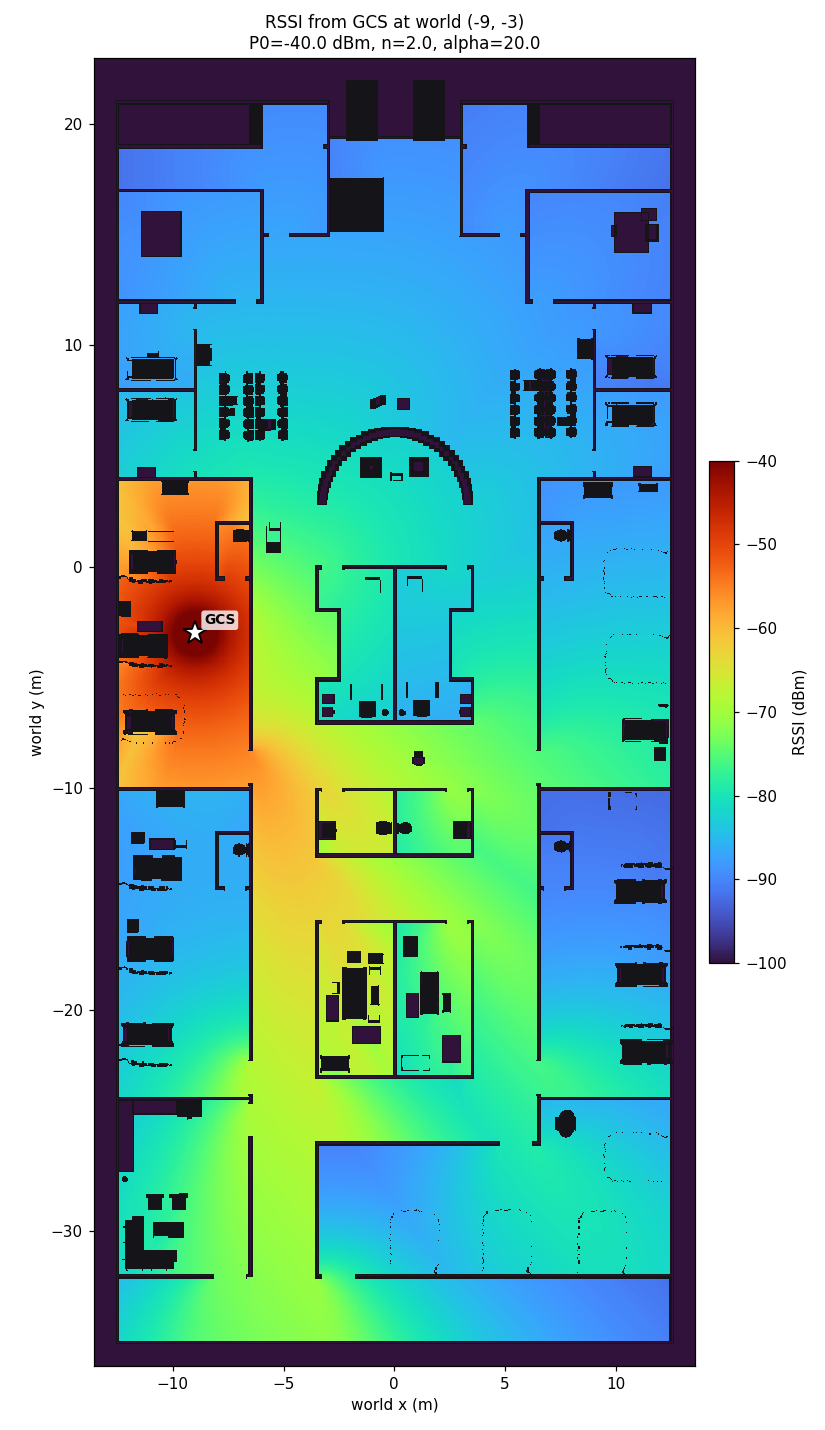
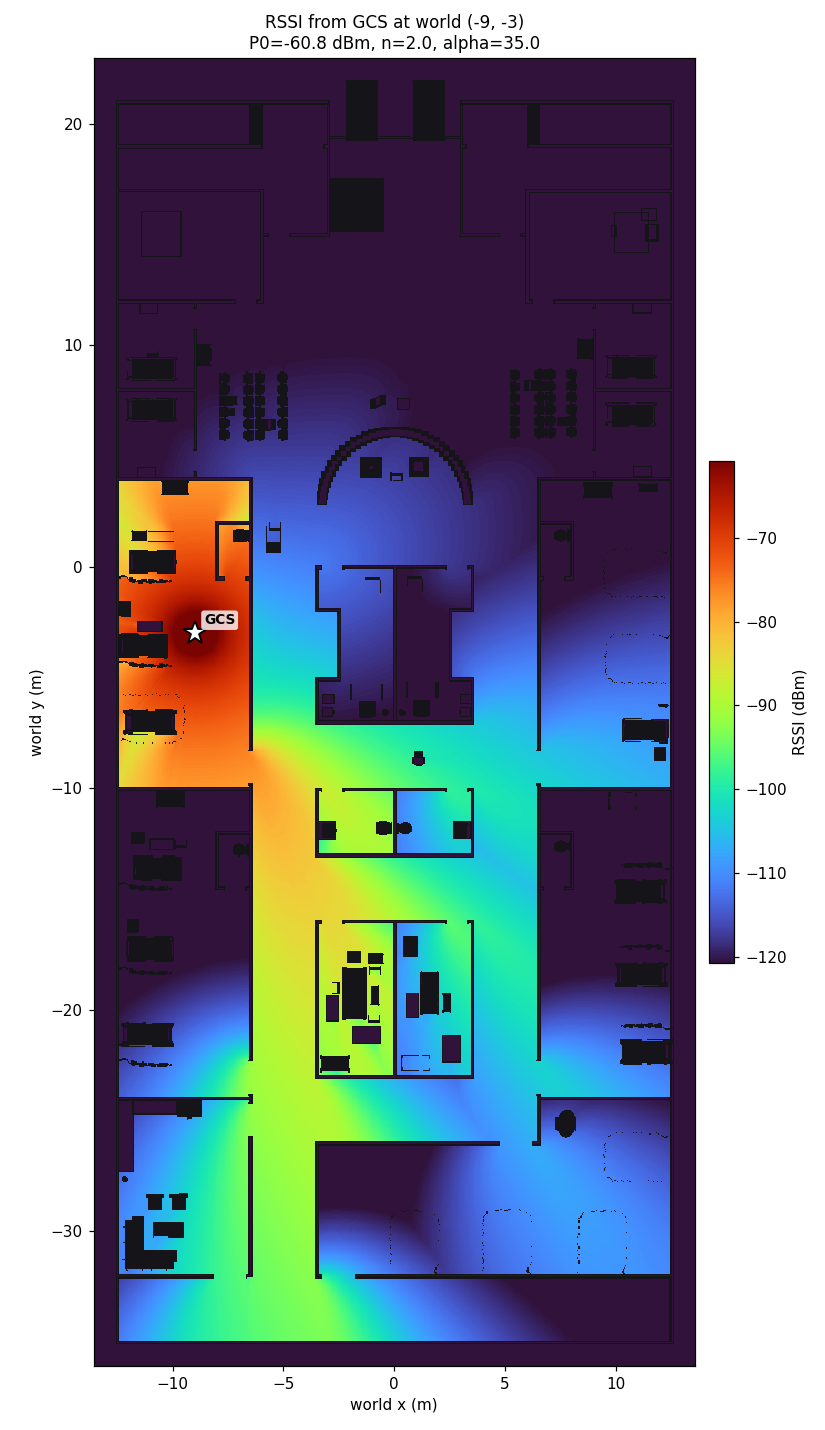
rssi: paper parameters + measured P0; regenerate all PNGs
Parameters (Seo et al., RA-L 2025): n = 2, alpha = 35 (Fig. 6c true
parameters), sigma_n = 3 dB and eta = -85 dBm (Table I). Link colours use the
paper's Fig. 9 bands: > -65 green, -65..-85 yellow, < -85 red.

P0 = -60.8 dBm, measured on our Rajant Cardinal pair at 1 m, antennas facing,
5 GHz ch161, 10 snapshots (-61.4 / -60.2 per direction, sd < 1 dB). That is
31 dB below the paper's -30 on the same hardware, i.e. our TX power is set low.
Outputs are generated for both P0 values (paperP0_* = -30).

Finding: at the measured P0 the two-relay chain cannot cover the 43.7 m route;
the head disconnects at ~30 m (relay hops of ~14 m fall below -85 even in LOS).
At the paper's P0 the chain is never needed.

Colour floor now tracks P0 (P0 - 60) and every Phase 2 frame is saved as PNG.

diff --git a/rssi/phase2_topology.py b/rssi/phase2_topology.py
@@ -57,19 +57,26 @@ def route(grid, start, goal, spacing=0.25):
     return np.c_[np.interp(s, seg, xy[:, 0]), np.interp(s, seg, xy[:, 1])], seg[-1]
 
 
+GOOD_DBM = -65.0   # paper Fig. 9 legend: RSSI > -65 green, -65..-85 yellow, <= -85 red
+
+
+def link_colour(rssi, thr):
+    if not np.isfinite(rssi) or rssi < thr:
+        return "#d62728"
+    return "#2ca02c" if rssi > GOOD_DBM else "#e6b800"
+
+
 def draw(ax, net, grid, links, conn, thr, cov, title, norm):
     show = np.where(np.isfinite(cov), cov, np.where(grid.free, norm.vmin, np.nan))  # sealed -> floor colour
     im = ax.imshow(show, origin="lower", extent=grid.extent(),
                    cmap="turbo", norm=norm, interpolation="nearest", alpha=0.85)
     walls_overlay(ax, grid)
-    lcm = plt.get_cmap("RdYlGn")
-    lnorm = Normalize(thr - 10, net.prop.P0 - 15)
     for L in links:
         a, b = net.node(L["a"]), net.node(L["b"])
         up = np.isfinite(L["rssi"]) and L["rssi"] >= thr
         xs, ys = [a.xy[0], b.xy[0]], [a.xy[1], b.xy[1]]
-        ax.plot(xs, ys, color=lcm(lnorm(L["rssi"])) if up else "0.35",
-                lw=2.6 if up else 1.0, ls="-" if up else (0, (3, 3)), zorder=6)
+        ax.plot(xs, ys, color=link_colour(L["rssi"], thr), lw=2.8 if up else 1.4,
+                ls="-" if up else (0, (3, 3)), zorder=6)
         mx, my = np.mean(xs), np.mean(ys)
         txt = f"{L['rssi']:.0f}" + ("" if L["los"] else "*")
         ax.text(mx, my, txt, fontsize=7.5, ha="center", va="center", zorder=8,
@@ -117,7 +124,7 @@ def noise_check(net, gcs, res_ok):
     chk("links are symmetric (a->b == b->a)", sym < 1e-9, f"|diff| = {sym:.1e} dB")
 
     fig, axs = plt.subplots(1, 4, figsize=(20, 10), gridspec_kw=dict(width_ratios=[1, 1, 1, 1.1]))
-    norm = Normalize(-100, net.prop.P0)
+    norm = Normalize(net.prop.P0 - 60, net.prop.P0)
     g = net.grid
     for ax, img, t in [(axs[0], clean, "GCS clean (Phase 1 model)"),
                        (axs[1], noisy, f"GCS + shadowing (sigma {net.noise.sigma_shadow} dB, {net.noise.corr_m} m)")]:
@@ -148,9 +155,9 @@ def main():
                     help="where the head robot drives to (world m)")
     ap.add_argument("--threshold", type=float, default=-85.0, help="link usable at >= this, dBm")
     ap.add_argument("--frames", type=int, default=36)
-    ap.add_argument("--sigma-shadow", type=float, default=4.0)
-    ap.add_argument("--corr", type=float, default=3.0)
-    ap.add_argument("--sigma-fast", type=float, default=2.0)
+    ap.add_argument("--sigma-shadow", type=float, default=NoiseParams.sigma_shadow)
+    ap.add_argument("--corr", type=float, default=NoiseParams.corr_m)
+    ap.add_argument("--sigma-fast", type=float, default=NoiseParams.sigma_fast)
     ap.add_argument("--P0", type=float, default=PropagationParams.P0)
     ap.add_argument("--n", type=float, default=PropagationParams.n)
     ap.add_argument("--alpha", type=float, default=PropagationParams.alpha)
@@ -222,16 +229,15 @@ def main():
     print(f"\n  [{'PASS' if ok else 'FAIL'}] link 'clean' value equals a fresh eq.(1) evaluation"); results.append(ok)
 
     # ---- plots
-    norm = Normalize(-100, net.prop.P0)
-    picks = sorted(set([0, a.frames // 3, 2 * a.frames // 3, a.frames - 1]))
-    for k in picks:
+    norm = Normalize(net.prop.P0 - 60, net.prop.P0)
+    for k in range(len(frames)):                       # every frame as its own PNG
         _, links, conn, cov, pos, s = frames[k]
         for n in net.nodes: n.xy = pos[n.name]
         fig, ax = plt.subplots(figsize=(7.5, 13))
         im = draw(ax, net, grid, links, conn, a.threshold, cov,
                   f"frame {k}/{a.frames-1}  -  head {s:.1f} m along route\n"
                   f"coverage = best RSSI from any node (noisy)  |  link labels dBm, * = NLOS\n"
-                  f"solid = usable (>= {a.threshold:g} dBm), dashed grey = below", norm)
+                  f"links: green > -65, yellow -65..{a.threshold:g}, red dashed < {a.threshold:g} dBm (paper Fig. 9)", norm)
         fig.colorbar(im, ax=ax, fraction=0.035, pad=0.02).set_label("best RSSI (dBm)")
         ax.set_xlabel("world x (m)"); ax.set_ylabel("world y (m)")
         fig.tight_layout(); fig.savefig(os.path.join(OUT, f"phase2_frame_{k:02d}.png"), dpi=100); plt.close(fig)

diff --git a/rssi/heatmap.py b/rssi/heatmap.py
@@ -42,14 +42,16 @@ def main():
     ap.add_argument("--alpha", type=float, default=PropagationParams.alpha, help="detour weight")
     ap.add_argument("--threshold", type=float, default=-85.0, help="link usable at >= this, dBm")
     ap.add_argument("--noise", action="store_true", help="add shadowing to maps + fast fading to links")
-    ap.add_argument("--sigma-shadow", type=float, default=4.0)
-    ap.add_argument("--corr", type=float, default=3.0)
-    ap.add_argument("--sigma-fast", type=float, default=2.0)
+    ap.add_argument("--sigma-shadow", type=float, default=NoiseParams.sigma_shadow)
+    ap.add_argument("--corr", type=float, default=NoiseParams.corr_m)
+    ap.add_argument("--sigma-fast", type=float, default=NoiseParams.sigma_fast)
     ap.add_argument("--seed", type=int, default=0, help="fast-fading seed")
-    ap.add_argument("--floor", type=float, default=-100.0, help="colour-scale floor, dBm")
+    ap.add_argument("--floor", type=float, default=None, help="colour-scale floor, dBm (default P0-60)")
     ap.add_argument("--per-node", action="store_true", help="also save one map per node")
     ap.add_argument("--name", default="heatmap", help="output file name (no extension)")
     a = ap.parse_args()
+    if a.floor is None:
+        a.floor = a.P0 - 60.0
 
     grid = GridMap.load(GT + ".npy", GT + ".json")
     net = Network(grid, PropagationParams(P0=a.P0, n=a.n, alpha=a.alpha),
@@ -91,7 +93,7 @@ def main():
     fig, ax = plt.subplots(figsize=(7.5, 13))
     im = draw(ax, net, grid, links, conn, a.threshold, cov,
               f"P0 {a.P0} dBm, n {a.n}, alpha {a.alpha}, noise {'on' if a.noise else 'off'}\n"
-              f"colour = best RSSI from any node  |  solid link = >= {a.threshold:g} dBm", norm)
+              f"colour = best RSSI from any node  |  links green > -65, yellow, red dashed < {a.threshold:g}", norm)
     fig.colorbar(im, ax=ax, fraction=0.035, pad=0.02).set_label("RSSI (dBm)")
     ax.set_xlabel("world x (m)"); ax.set_ylabel("world y (m)")
     fig.tight_layout()

diff --git a/rssi/propagation.py b/rssi/propagation.py
@@ -74,9 +74,13 @@ class GridMap:
 # --------------------------------------------------------------------- parameters
 @dataclass
 class PropagationParams:
-    P0: float = -40.0      # dBm at 1 m
-    n: float = 2.0         # path-loss exponent
-    alpha: float = 20.0    # obstacle / detour attenuation weight
+    # P0 MEASURED 2026-10-07: our Rajant Cardinal pair, 1 m apart, antennas facing,
+    # 5 GHz ch161, 10 snapshots: -61.4 / -60.2 dBm per direction (sd < 1 dB).
+    # The paper (Seo et al., RA-L 2025, Table I) uses -30 dBm on the same radio
+    # model -- ours are evidently configured at much lower TX power.
+    P0: float = -60.8      # dBm at 1 m
+    n: float = 2.0         # path-loss exponent        (paper Fig. 6c "true parameters")
+    alpha: float = 35.0    # obstacle/detour weight    (paper Fig. 6c "true parameters")
     d_min: float = 1.0     # dE is clamped below this: the model is referenced at 1 m,
                            # and log10(dE) < 0 would put RSSI ABOVE P0 near the source
 

diff --git a/rssi/phase1_heatmap.py b/rssi/phase1_heatmap.py
@@ -44,9 +44,11 @@ def main():
     ap.add_argument("--P0", type=float, default=PropagationParams.P0)
     ap.add_argument("--n", type=float, default=PropagationParams.n)
     ap.add_argument("--alpha", type=float, default=PropagationParams.alpha)
-    ap.add_argument("--floor", type=float, default=-100.0, help="colour-scale floor, dBm")
+    ap.add_argument("--floor", type=float, default=None, help="colour-scale floor, dBm (default P0-60)")
     ap.add_argument("--tag", default=None)
     a = ap.parse_args()
+    if a.floor is None:
+        a.floor = a.P0 - 60.0
 
     p = PropagationParams(P0=a.P0, n=a.n, alpha=a.alpha)
     grid = GridMap.load(GT + ".npy", GT + ".json")

diff --git a/rssi/network.py b/rssi/network.py
@@ -29,7 +29,7 @@ from propagation import GridMap, PropagationParams, field_from, rssi_from_distan
 class NoiseParams:
     sigma_shadow: float = 4.0   # dB
     corr_m: float = 3.0         # m
-    sigma_fast: float = 2.0     # dB
+    sigma_fast: float = 3.0     # dB  -- paper Table I, measurement noise sigma_n
     enabled: bool = True
 
 
